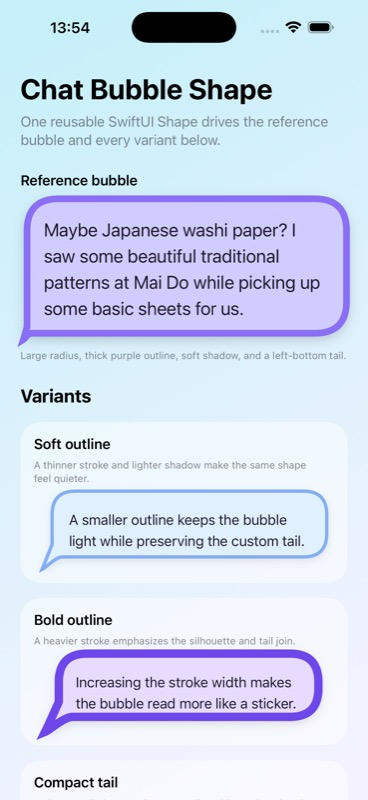
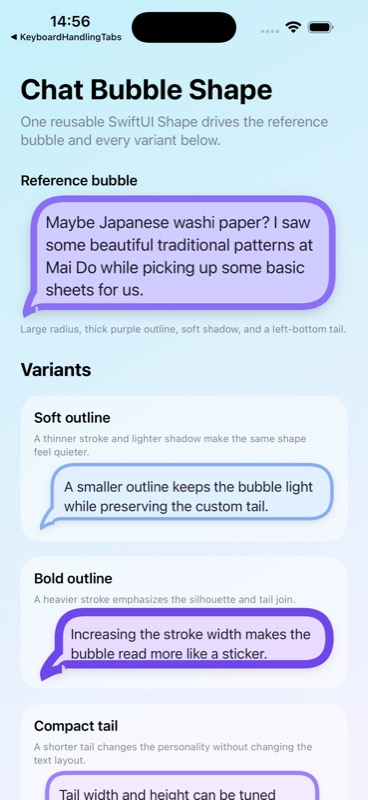
Refine chat bubble reference shape

Changed region(s): [[0.0299, 0.2188, 0.9565, 1.0], [0.0299, 0.0, 0.3288, 0.0625], [0.837, 0.9688, 0.8668, 1.0]]

diff --git a/chat-bubble-shape-demo/ChatBubbleShapeDemo/ChatBubbleShape.swift b/chat-bubble-shape-demo/ChatBubbleShapeDemo/ChatBubbleShape.swift
@@ -14,6 +14,7 @@ struct ChatBubbleShape: Shape {
         let safeTailInset: CGFloat
         let tailTip: CGPoint
         let tailTop: CGPoint
+        let tailBase: CGPoint
         let tailJoin: CGPoint
     }
 
@@ -28,20 +29,24 @@ struct ChatBubbleShape: Shape {
             x: rect.minX + safeTailWidth,
             y: rect.minY,
             width: max(0, rect.width - safeTailWidth - 0.0001),
-            height: rect.height - safeTailHeight * 0.75
+            height: rect.height - safeTailHeight * 0.55
         )
 
         let safeRadius = clamp(initialSafeRadius, lower: 0, upper: min(body.width / 2.0, body.height / 2.0))
         let tailTip = CGPoint(
-            x: max(rect.minX, body.minX - safeTailWidth * 0.55),
-            y: rect.maxY - 0.0001
+            x: max(rect.minX, body.minX - safeTailWidth * 0.58),
+            y: min(rect.maxY - 0.0001, body.maxY + safeTailHeight * 0.62)
         )
         let tailTop = CGPoint(
             x: body.minX,
-            y: max(body.minY + safeRadius, body.maxY - max(safeTailInset, safeTailHeight * 0.75))
+            y: max(body.minY + safeRadius, body.maxY - safeRadius * 0.48)
+        )
+        let tailBase = CGPoint(
+            x: body.minX + safeTailWidth * 0.12,
+            y: body.maxY + safeTailHeight * 0.24
         )
         let tailJoin = CGPoint(
-            x: body.minX + safeTailWidth * 0.55,
+            x: body.minX + min(safeRadius * 0.34, safeTailWidth * 0.84),
             y: body.maxY
         )
 
@@ -53,6 +58,7 @@ struct ChatBubbleShape: Shape {
             safeTailInset: safeTailInset,
             tailTip: tailTip,
             tailTop: tailTop,
+            tailBase: tailBase,
             tailJoin: tailJoin
         )
     }
@@ -74,14 +80,19 @@ struct ChatBubbleShape: Shape {
         )
         path.addLine(to: geometry.tailJoin)
         path.addCurve(
+            to: geometry.tailBase,
+            control1: CGPoint(x: geometry.body.minX + geometry.safeTailWidth * 0.16, y: geometry.body.maxY),
+            control2: CGPoint(x: geometry.body.minX + geometry.safeTailWidth * 0.02, y: geometry.tailBase.y)
+        )
+        path.addCurve(
             to: geometry.tailTip,
-            control1: CGPoint(x: geometry.body.minX + geometry.safeTailWidth * 0.2, y: geometry.body.maxY),
-            control2: CGPoint(x: geometry.body.minX - geometry.safeTailWidth * 0.35, y: geometry.body.maxY + geometry.safeTailHeight * 0.65)
+            control1: CGPoint(x: geometry.body.minX - geometry.safeTailWidth * 0.18, y: geometry.tailBase.y),
+            control2: CGPoint(x: geometry.body.minX - geometry.safeTailWidth * 0.50, y: geometry.body.maxY + geometry.safeTailHeight * 0.50)
         )
         path.addCurve(
             to: geometry.tailTop,
-            control1: CGPoint(x: geometry.body.minX - geometry.safeTailWidth * 0.35, y: geometry.body.maxY + geometry.safeTailHeight * 0.25),
-            control2: CGPoint(x: geometry.body.minX - geometry.safeTailWidth * 0.15, y: geometry.body.maxY - geometry.safeTailHeight * 0.35)
+            control1: CGPoint(x: geometry.body.minX - geometry.safeTailWidth * 0.64, y: geometry.body.maxY + geometry.safeTailHeight * 0.26),
+            control2: CGPoint(x: geometry.body.minX - geometry.safeTailWidth * 0.12, y: geometry.tailTop.y + geometry.safeTailHeight * 0.12)
         )
         path.addLine(to: CGPoint(x: geometry.body.minX, y: geometry.body.minY + geometry.safeRadius))
         path.addQuadCurve(

diff --git a/chat-bubble-shape-demo/ChatBubbleShapeDemoTests/ChatBubbleShapeTests.swift b/chat-bubble-shape-demo/ChatBubbleShapeDemoTests/ChatBubbleShapeTests.swift
@@ -36,10 +36,13 @@ final class ChatBubbleShapeTests: XCTestCase {
         let geometry = shape.computeGeometry(in: CGRect(x: 0, y: 0, width: 320, height: 180))
 
         XCTAssertLessThanOrEqual(geometry.body.minX - geometry.tailTip.x, style.tailWidth)
+        XCTAssertLessThanOrEqual(geometry.tailBase.x - geometry.body.minX, style.tailWidth * 0.35)
+        XCTAssertLessThanOrEqual(geometry.tailBase.y - geometry.body.maxY, style.tailHeight * 0.35)
         XCTAssertLessThanOrEqual(geometry.tailTop.x - geometry.body.minX, style.tailWidth * 0.5)
-        XCTAssertLessThanOrEqual(geometry.tailJoin.x - geometry.body.minX, style.tailWidth * 0.6)
-        XCTAssertLessThanOrEqual(geometry.body.maxY - geometry.tailTop.y, style.tailHeight * 0.75)
-        XCTAssertLessThanOrEqual(geometry.body.maxY - geometry.tailJoin.y, style.tailInset * 0.6)
+        XCTAssertLessThanOrEqual(geometry.tailJoin.x - geometry.body.minX, style.cornerRadius * 0.5)
+        XCTAssertGreaterThanOrEqual(geometry.body.maxY - geometry.tailTop.y, style.cornerRadius * 0.4)
+        XCTAssertLessThanOrEqual(geometry.body.maxY - geometry.tailTop.y, style.cornerRadius)
+        XCTAssertLessThanOrEqual(geometry.tailTip.y - geometry.body.maxY, style.tailHeight)
     }
 
     func testShapeClampsGeometryForSmallRects() {

diff --git a/chat-bubble-shape-demo/ChatBubbleShapeDemoTests/BubbleSampleTests.swift b/chat-bubble-shape-demo/ChatBubbleShapeDemoTests/BubbleSampleTests.swift
@@ -10,8 +10,8 @@ final class BubbleSampleTests: XCTestCase {
         XCTAssertEqual(hero.title, "Reference bubble")
         XCTAssertTrue(hero.message.contains("Japanese washi paper"))
         XCTAssertGreaterThan(hero.style.cornerRadius, 32)
-        XCTAssertLessThanOrEqual(hero.style.tailWidth, 10)
-        XCTAssertLessThanOrEqual(hero.style.tailHeight, 12)
+        XCTAssertLessThanOrEqual(hero.style.tailWidth, 16)
+        XCTAssertLessThanOrEqual(hero.style.tailHeight, 14)
         XCTAssertLessThanOrEqual(hero.style.tailInset, 6)
         XCTAssertGreaterThan(hero.style.strokeWidth, 4)
     }

diff --git a/chat-bubble-shape-demo/ChatBubbleShapeDemo/ChatBubbleView.swift b/chat-bubble-shape-demo/ChatBubbleShapeDemo/ChatBubbleView.swift
@@ -15,10 +15,10 @@ struct ChatBubbleView: View {
         Text(message)
             .font(font)
             .foregroundStyle(style.textColor)
-            .lineSpacing(5)
-            .padding(.leading, style.tailWidth + 20)
-            .padding(.trailing, 26)
-            .padding(.vertical, 24)
+            .lineSpacing(3)
+            .padding(.leading, style.tailWidth + 14)
+            .padding(.trailing, 18)
+            .padding(.vertical, 16)
             .background {
                 bubbleShape
                     .fill(style.fill)

diff --git a/chat-bubble-shape-demo/ChatBubbleShapeDemo/ChatBubbleStyle.swift b/chat-bubble-shape-demo/ChatBubbleShapeDemo/ChatBubbleStyle.swift
@@ -21,9 +21,9 @@ extension ChatBubbleStyle {
         stroke: Color(red: 0.54, green: 0.43, blue: 0.96),
         strokeWidth: 8,
         cornerRadius: 38,
-        tailWidth: 8,
-        tailHeight: 10,
-        tailInset: 5,
+        tailWidth: 16,
+        tailHeight: 14,
+        tailInset: 6,
         shadowColor: Color.black.opacity(0.26),
         shadowRadius: 8,
         shadowX: 0,

diff --git a/chat-bubble-shape-demo/ChatBubbleShapeDemo/ContentView.swift b/chat-bubble-shape-demo/ChatBubbleShapeDemo/ContentView.swift
@@ -40,7 +40,7 @@ struct ContentView: View {
             ChatBubbleView(
                 message: BubbleSample.hero.message,
                 style: BubbleSample.hero.style,
-                font: .title2
+                font: .title3
             )
             Text(BubbleSample.hero.description)
                 .font(.caption)
